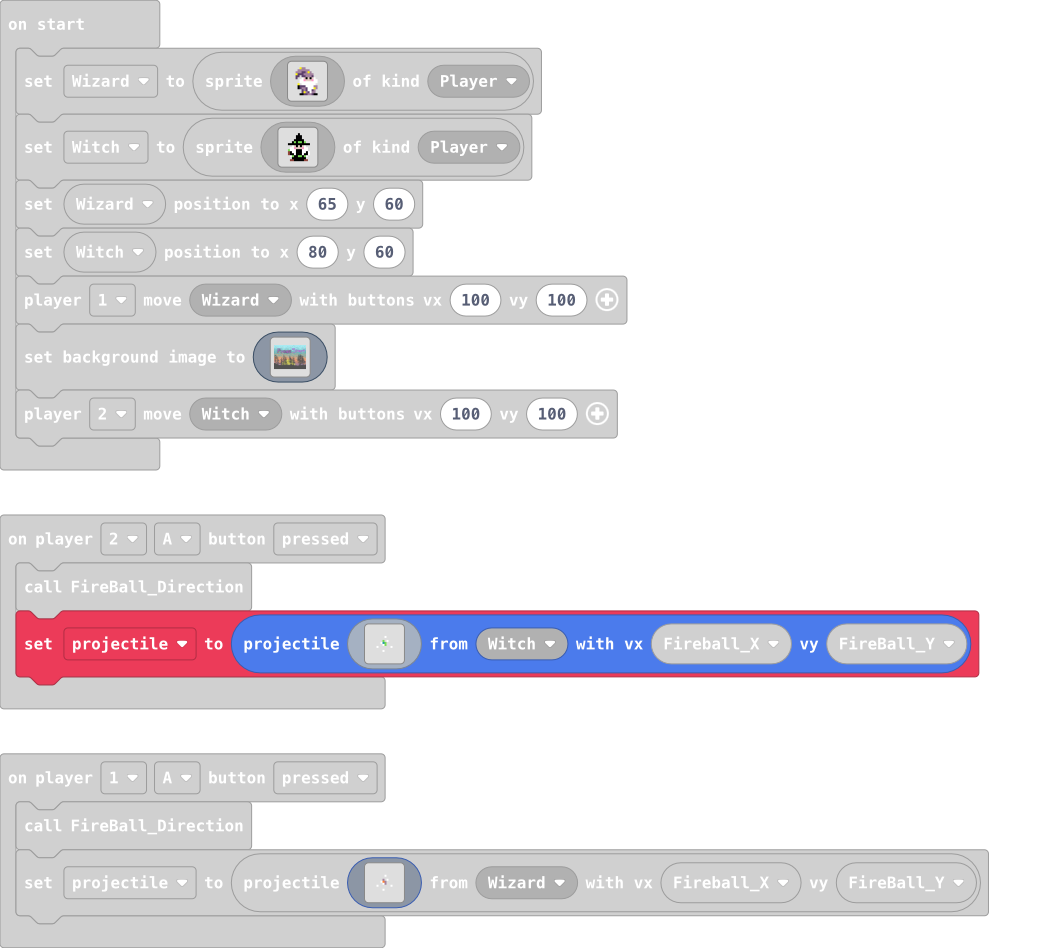
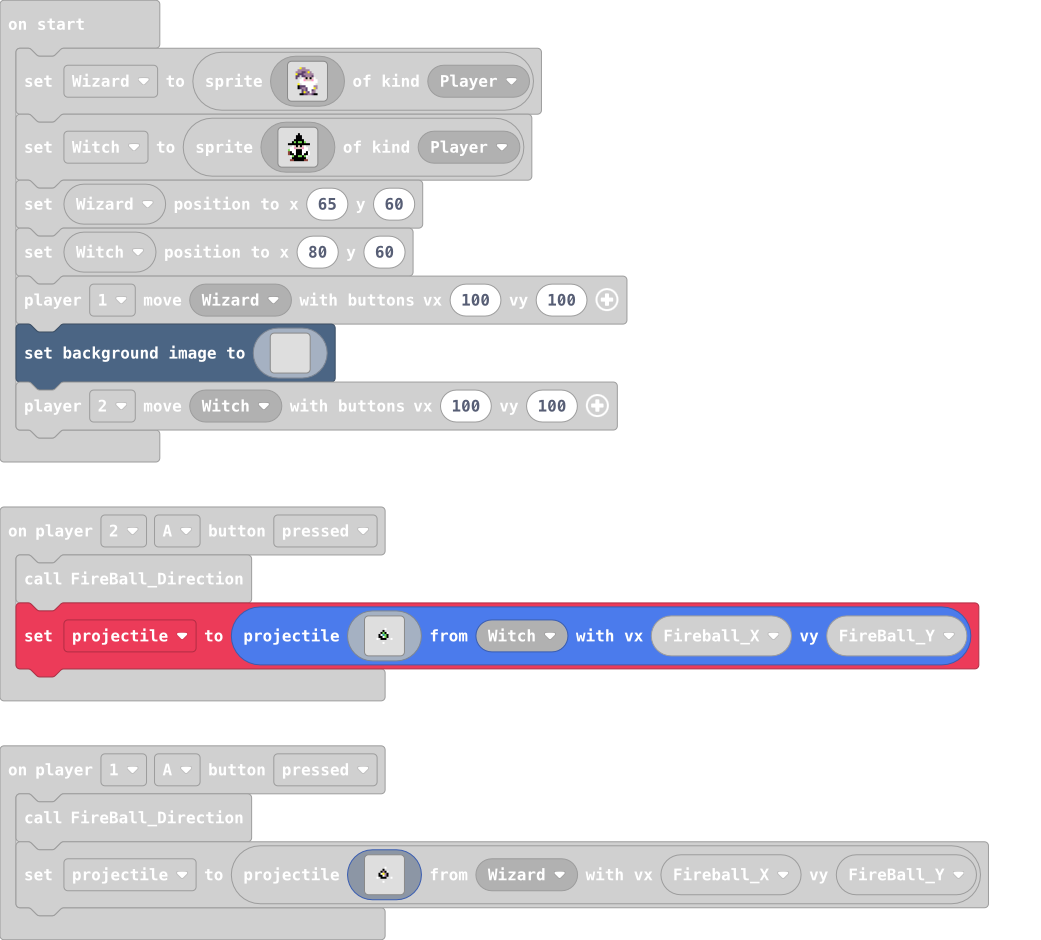
Update main.blocks, main.ts

diff --git a/main.ts b/main.ts
@@ -26,11 +26,11 @@ controller.player2.onButtonEvent(ControllerButton.A, ControllerButtonEvent.Press
         . . . . . . . . . . . . . . . . 
         . . . . . . . . . . . . . . . . 
         . . . . . . . . 1 . . . . . . . 
-        . . . . . . . . . . . . . . . . 
-        . . . . . . . 7 . 1 . . . . . . 
-        . . . . . . 1 6 7 . . . . . . . 
-        . . . . . . . 1 7 . . . . . . . 
-        . . . . 1 . . . . . . 1 . . . . 
+        . . . . . . . f . . . . . . . . 
+        . . . . . . f 7 f 1 . . . . . . 
+        . . . . . f 1 6 7 f . . . . . . 
+        . . . . . f f 1 7 f . . . . . . 
+        . . . . 1 . f f f . . 1 . . . . 
         . . . . . . . . . . . . . . . . 
         . . . . . . . 1 . . . . . . . . 
         . . . . . . . . . . . . . . . . 
@@ -47,11 +47,11 @@ controller.player1.onButtonEvent(ControllerButton.A, ControllerButtonEvent.Press
         . . . . . . . . . . . . . . . . 
         . . . . . . . . . . . . . . . . 
         . . . . . . . . 1 . . . . . . . 
-        . . . . . . . . . . . . . . . . 
-        . . . . . . . b . 1 . . . . . . 
-        . . . . . . 1 4 b . . . . . . . 
-        . . . . . . . 1 b . . . . . . . 
-        . . . . 1 . . . . . . 1 . . . . 
+        . . . . . . . f . . . . . . . . 
+        . . . . . . f b f 1 . . . . . . 
+        . . . . . f 1 5 b f . . . . . . 
+        . . . . . f f 1 b f . . . . . . 
+        . . . . 1 . f f f . . 1 . . . . 
         . . . . . . . . . . . . . . . . 
         . . . . . . . 1 . . . . . . . . 
         . . . . . . . . . . . . . . . . 
@@ -209,19 +209,19 @@ scene.setBackgroundImage(img`
[30 lines of base64/hex data omitted]
